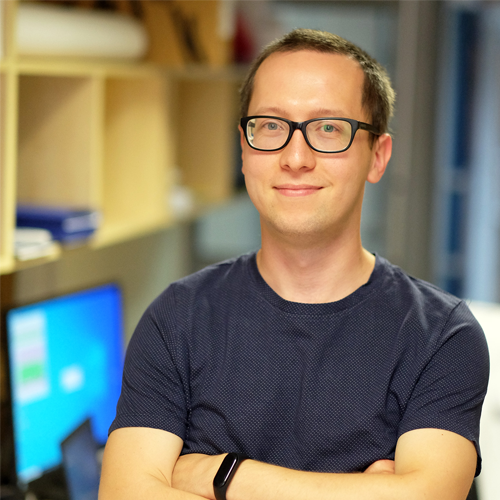
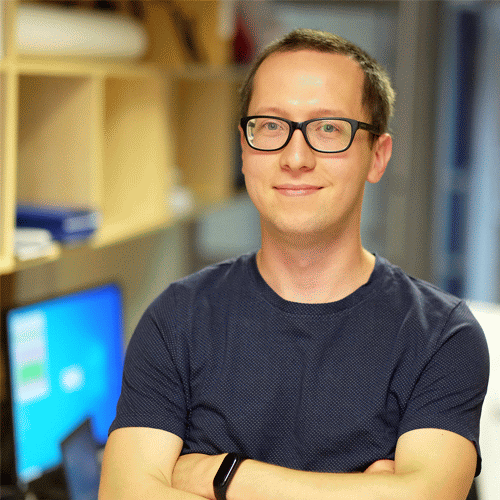
Add speakers for 2023, decrease size of photos

diff --git a/content/ngschool2023/_index.md b/content/ngschool2023/_index.md
@@ -210,7 +210,7 @@ description: "Advances in Computational Biology"
             <h4>Helmholtz Center Munich & Technical University of Munich, Germany</h4>
         </div>
         <div class="col-md-2">
-            <img class="img-responsive w-100" src="/images/people/profile-picture.jpg" alt="">
+            <img class="img-responsive w-100" src="/images/people/jan-krumsiek.png" alt="">
         </div>
         <div class="col-md-4">
             <h3><a href="/people/jan-krumsiek/" target="_blank">Jan Krumsiek</a></h3>
@@ -225,6 +225,23 @@ description: "Advances in Computational Biology"
         <div class="col-md-4">
             <h3><a href="/people/gustav-lindwall/" target="_blank">Gustav Lindwall</a></h3>
             <h4>Chalmers University of Technology, Sweden</h4>
+        </div>
+        <div class="col-md-2">
+            <img class="img-responsive w-100" src="/images/people/jakub-mieczkowski.jpg" alt="">
+        </div>
+        <div class="col-md-4">
+            <h3><a href="/people/jakub-mieczkowski/" target="_blank">Jakub Mieczkowski</a></h3>
+            <h4>Medical University of Gdansk, Poland</h4>
+        </div>
+    </div>
+    <br>
+    <div class="row">
+        <div class="col-md-2">
+            <img class="img-responsive w-100" src="/images/people/kerstin-hasse.png" alt="">
+        </div>
+        <div class="col-md-4">
+            <h3><a href="/people/kerstin-hasse/" target="_blank">Kerstin Haase</a></h3>
+            <h4>Charité Universitätsmedizin, Germany & German Cancer Research Center (DKFZ), Germany</h4>
         </div>
         <div class="col-md-2">
             <img class="img-responsive w-100" src="/images/people/diana-sharysh.jpg" alt="">
@@ -252,6 +269,23 @@ description: "Advances in Computational Biology"
         </div>
     </div>
     <br>
+    <!-- <div class="row">
+        <div class="col-md-2">
+            <img class="img-responsive w-100" src="/images/people/d" alt="">
+        </div>
+        <div class="col-md-4">
+            <h3><a href="/people//" target="_blank">h</a></h3>
+            <h4></h4>
+        </div>
+        <div class="col-md-2">
+            <img class="img-responsive w-100" src="/images/people/d" alt="">
+        </div>
+        <div class="col-md-4">
+            <h3><a href="/people//" target="_blank">h</a></h3>
+            <h4></h4>
+        </div>
+    </div>
+    <br> -->
     <p class="mt-20">And more to be announced soon!</p>
 </div>
 

diff --git a/content/people/kerstin-hasse.md b/content/people/kerstin-hasse.md
@@ -1,0 +1,17 @@
+---
+bg_image: images/bg.jpg
+category: Speakers
+description: 
+draft: false
+image: images/people/kerstin-hasse.png
+information:
+- info: "NGSchool2023"
+  label: Events
+- info: speaker
+  label: Role
+- info: "Charité Universitätsmedizin, Germany & German Cancer Research Center (DKFZ), Germany"
+  label: Affiliation
+title: Kerstin Haase
+---
+
+Kerstin Haase is a dedicated researcher at Charite Clinic, who joined the Henssen lab in October 2019, after her undergraduate degree in bioinformatics from the Ludwig-Maximilians University of Munich (Germany) and PhD from the Technical University of Munich (Germany). Then, Kerstin joined the cancer genomics group at the Francis Crick Institute (London, UK) to characterize aberrations in cancer genomes as a part of the Pan-cancer Analysis of Whole Genomes. Currently, her primary objective is to investigate the role of circular DNA in tumour heterogeneity and evolution using advanced computational approaches applied to extensive sequencing datasets. Specifically, her research centres around comprehensively analyzing copy number variations (CNVs) within cancer genomes, with a focus on understanding their influence on the development of tumours.

diff --git a/content/people/jakub-mieczkowski.md b/content/people/jakub-mieczkowski.md
@@ -1,0 +1,17 @@
+---
+bg_image: images/bg.jpg
+category: Speakers
+description: 
+draft: false
+image: images/people/jakub-mieczkowski.jpg
+information:
+- info: "NGSchool2023"
+  label: Events
+- info: speaker
+  label: Role
+- info: "Medical University of Gdansk, Poland"
+  label: Affiliation
+title: Jakub Mieczkowski
+---
+
+Jakub’s group at the Medical University of Gdansk pursues multi-disciplinary projects aiming to uncover patterns in epigenetic factors influencing chromatin states and gene expression profiles relating to cellular responses to environmental stimulations in the context of their genetic, epigenetic and environmental background. The research he leads focuses on using high-throughput computational and experimental approaches to study cell transitions, and cell-cell communications and interrogate changes in chromatin structure and gene expression regulation triggered by genetic modifications and/or extracellular stimulations, particularly in cancer cells to provide diagnostic and therapeutic solutions.

diff --git a/content/people/jan-krumsiek.md b/content/people/jan-krumsiek.md
@@ -3,7 +3,7 @@ bg_image: images/bg.jpg
 category: Speakers
 description: 
 draft: false
-image: images/people/profile-picture.jpg
+image: images/people/jan-krumsiek.png
 information:
 - info: "NGSchool2023"
   label: Events
